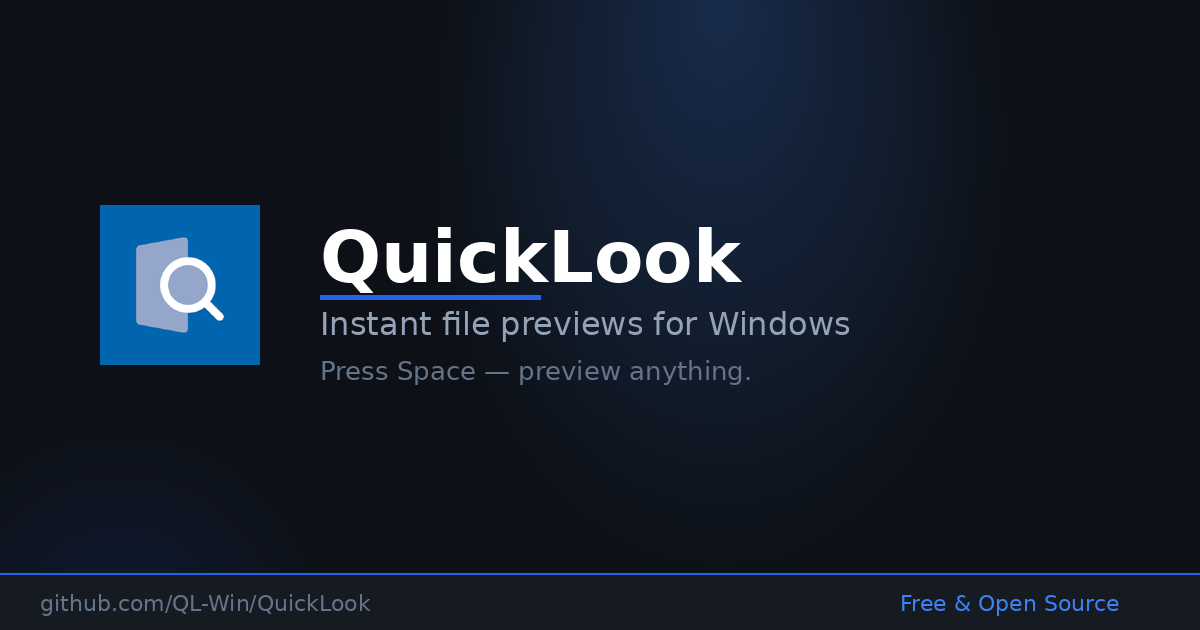
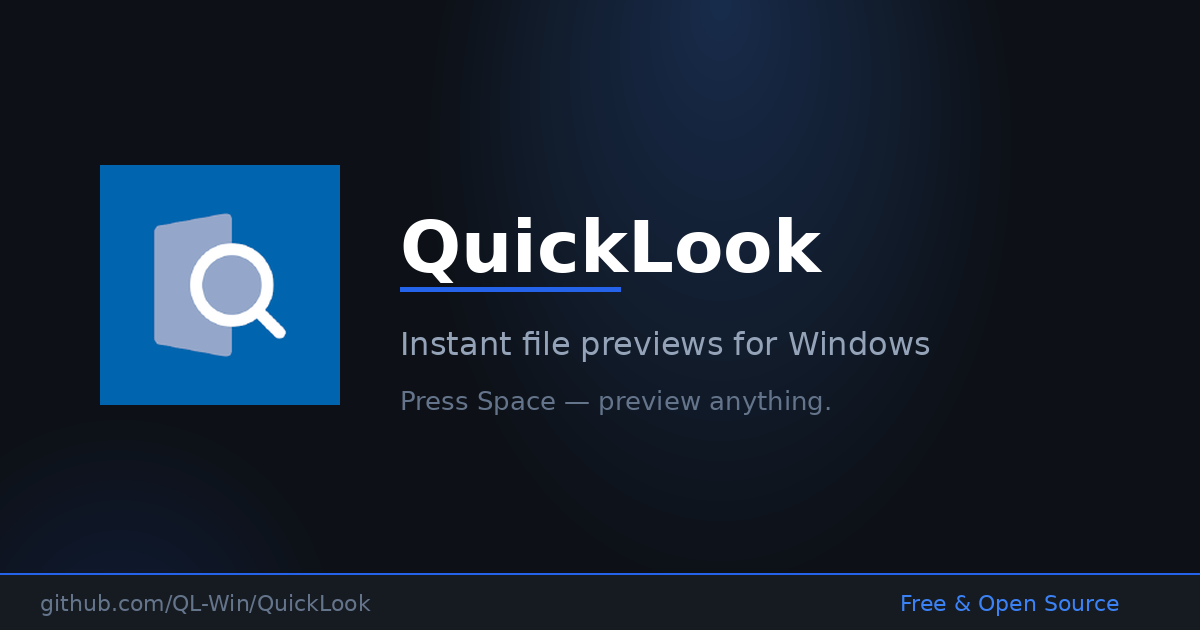
feat: update og-image, improve og:title and og:description for SEO (#16)
* feat: add og:image and social meta tags

* feat: update og-image, improve og:title and og:description for SEO

Changed region(s): [[0.0617, 0.2413, 0.7708, 0.6635]]

diff --git a/docs/.vitepress/config.ts b/docs/.vitepress/config.ts
@@ -13,8 +13,8 @@ export default defineConfig({
     ['link', { rel: 'preconnect', href: 'https://fonts.gstatic.com', crossorigin: '' }],
     ['link', { href: 'https://fonts.googleapis.com/css2?family=Sora:wght@300;400;500;600;700;800&family=JetBrains+Mono:wght@400;500;600&display=swap', rel: 'stylesheet' }],
     ['meta', { name: 'theme-color', content: '#2563eb' }],
-    ['meta', { property: 'og:title', content: 'QuickLook' }],
-    ['meta', { property: 'og:description', content: 'Bring macOS Quick Look to Windows — instant file previews with Space.' }],
+    ['meta', { property: 'og:title', content: 'QuickLook — Instant File Previews for Windows, Press Space to Preview' }],
+    ['meta', { property: 'og:description', content: 'Bring macOS Quick Look to Windows. Press Space to instantly preview images, videos, PDFs, code, and 300+ file formats — no app needed.' }],
     ['meta', { property: 'og:image', content: 'https://quicklookapp.vercel.app/og-image.png' }],
     ['meta', { property: 'og:url', content: 'https://quicklookapp.vercel.app' }],
     ['meta', { property: 'og:type', content: 'website' }],
